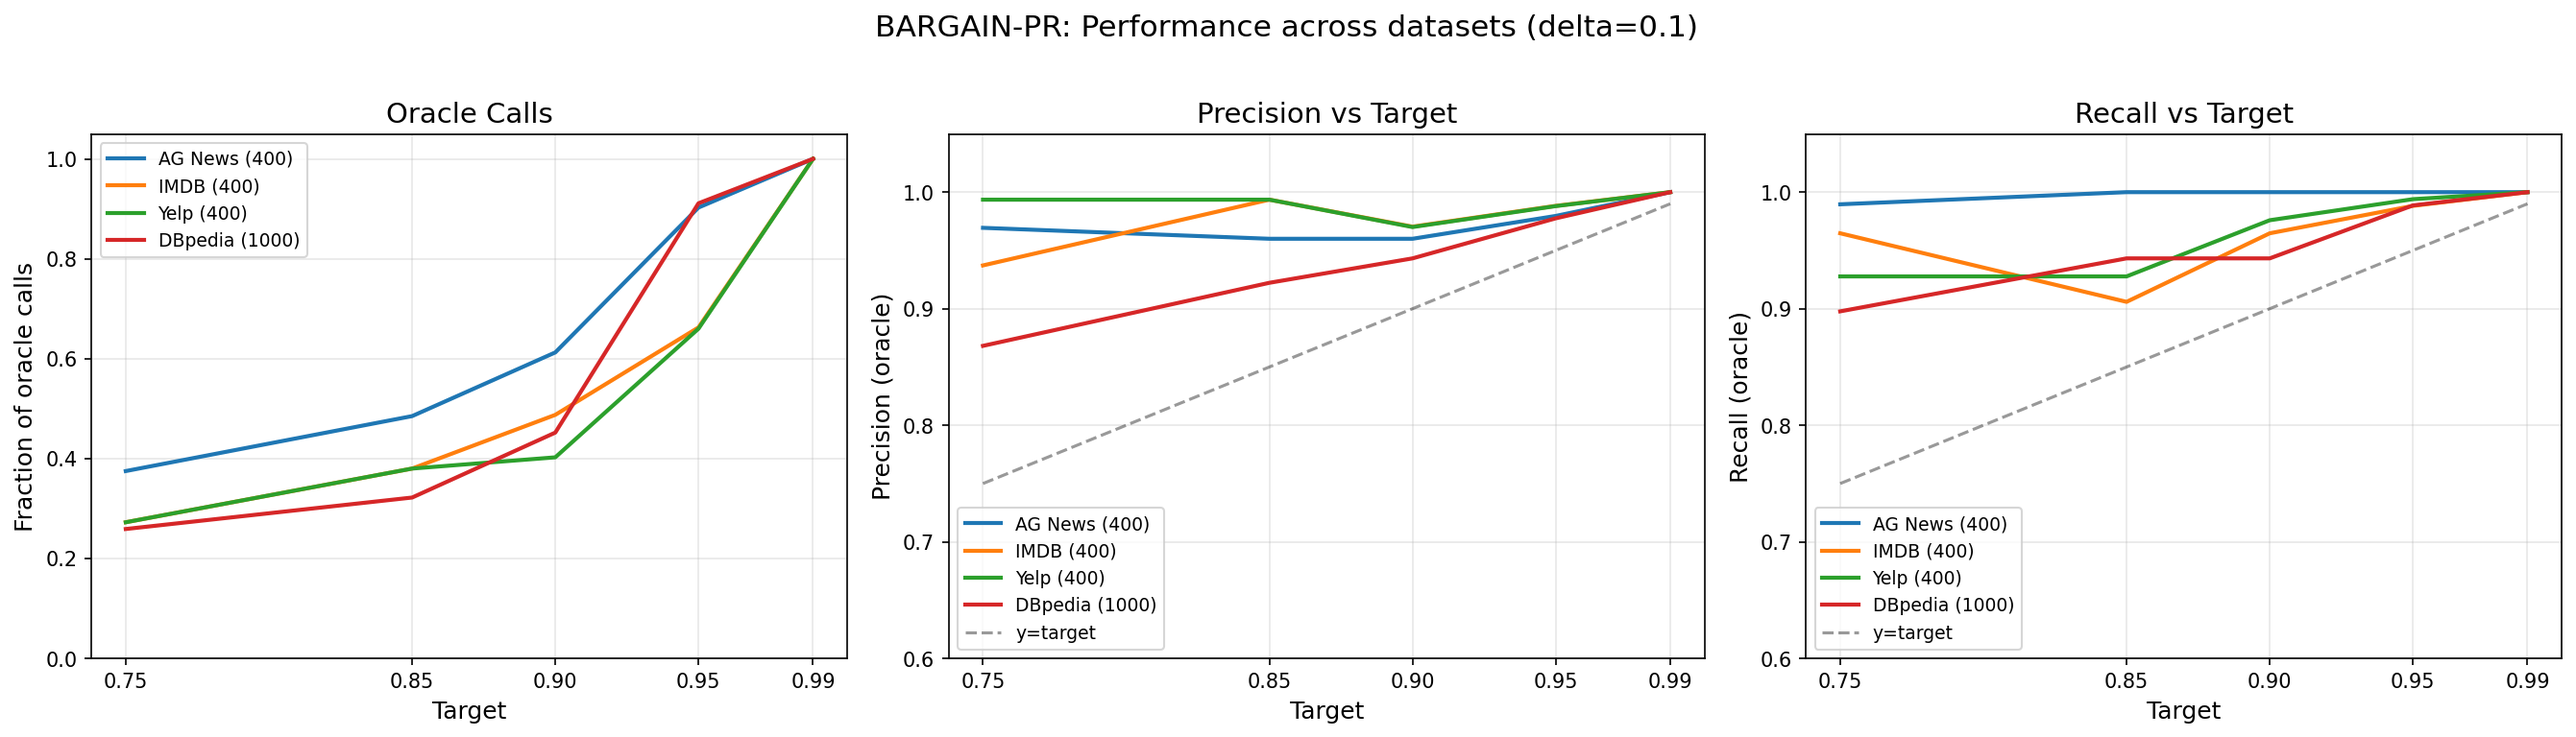
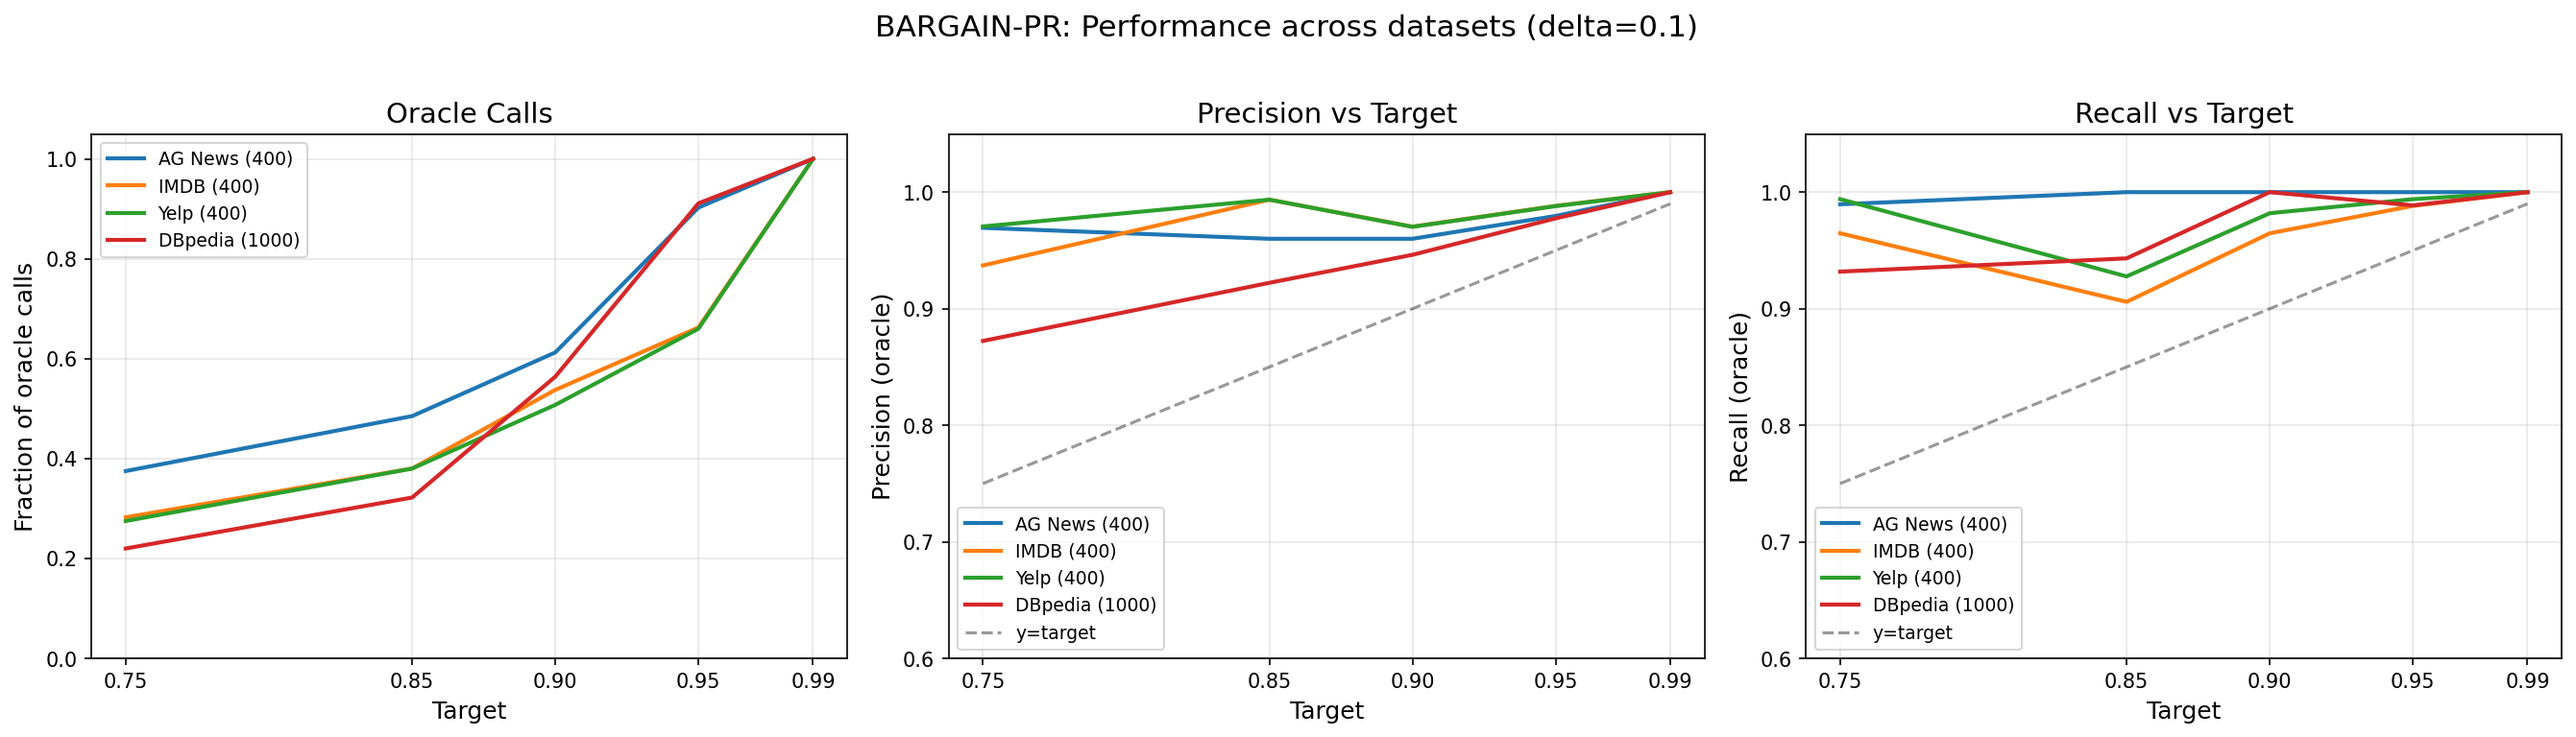
Cap recall search at 100 positives, add disk caching, regenerate plots
_find_recall_threshold now stops after accumulating 100 positives
instead of exhausting the entire dataset. Experiment scripts use
pickle-based disk caching for proxy/oracle responses.

https://claude.ai/code/session_011vFMnYGpnc6jgfSKbviRxo

diff --git a/BARGAIN/process/BARGAIN_PR.py b/BARGAIN/process/BARGAIN_PR.py
@@ -54,9 +54,11 @@ class BARGAIN_PR():
         """
         Find t_R: the rightmost sorted index such that >= target fraction
         of all true positives are at sorted index >= t_R, with confidence delta/2.
+        Samples uniformly until ~100 positives are found, then stops.
         """
         delta_recall = self.delta / 2
         sample_step = 5 * self.sample_step
+        max_positives = 100
 
         perm = np.random.permutation(n)
         ptr = 0
@@ -101,6 +103,10 @@ class BARGAIN_PR():
 
             if found:
                 best_t = candidate_t
+                break
+
+            if len(pos_sorted_indices) >= max_positives:
+                break
                 break
 
         return best_t
